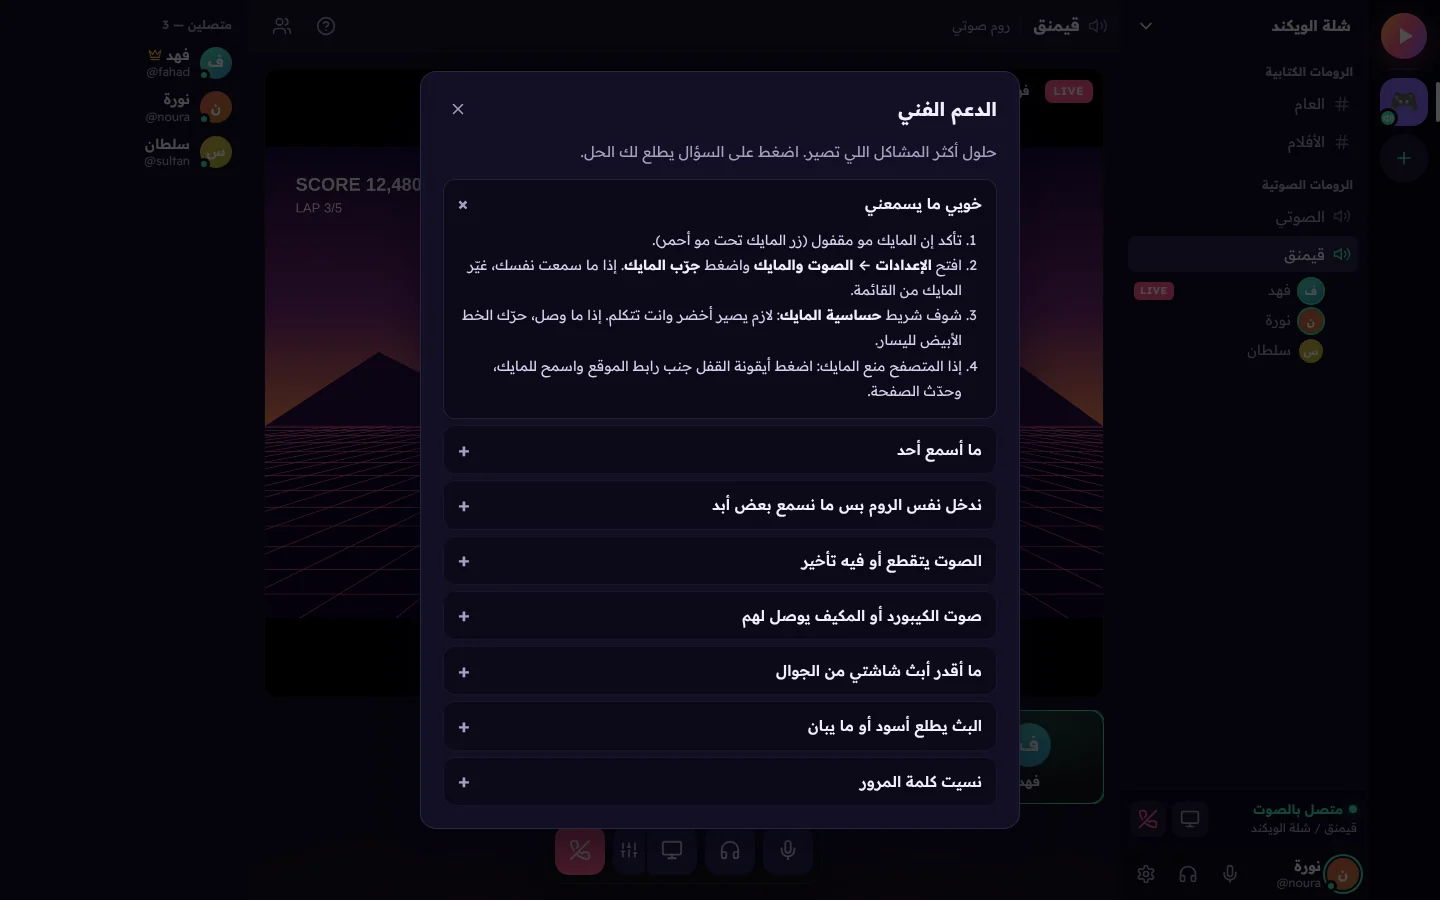
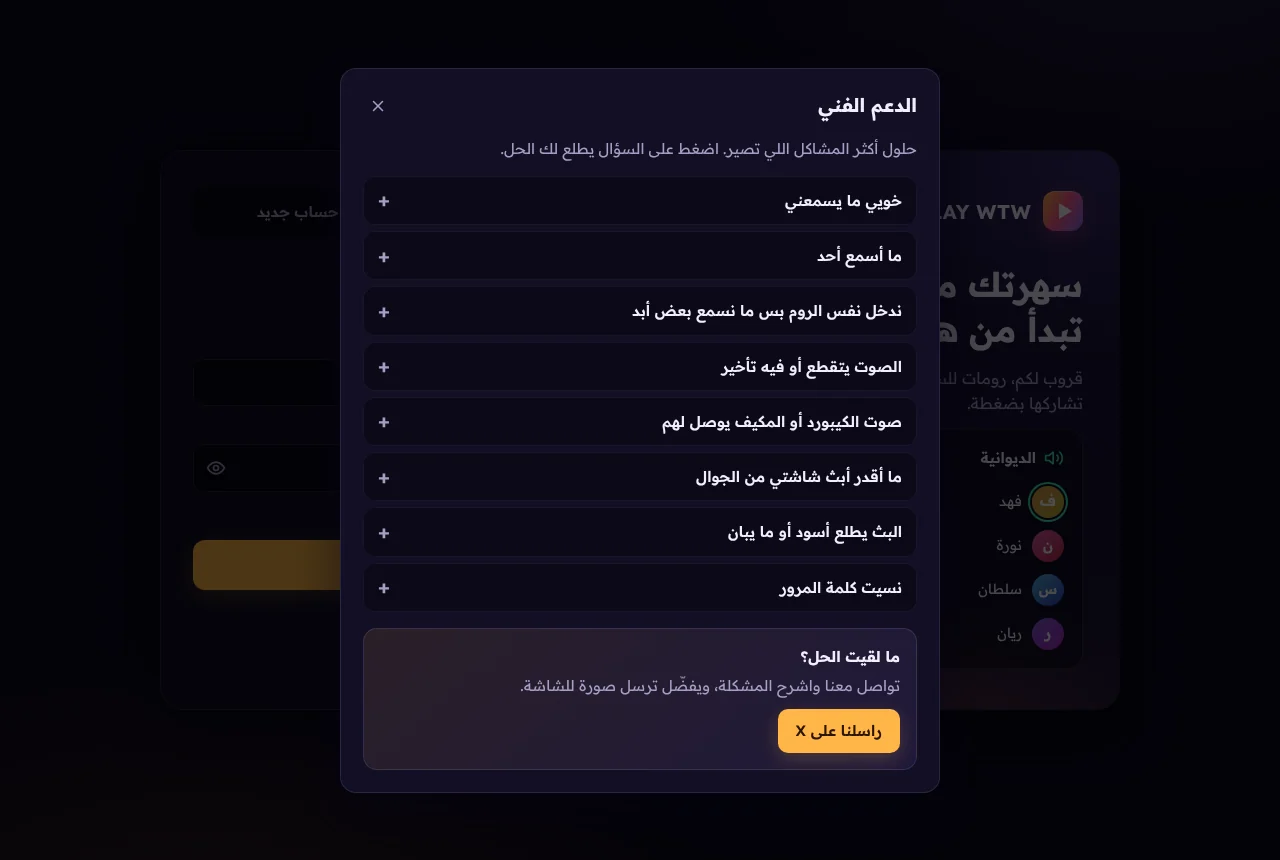
Add X contact link to the help center
Claude-Session: https://claude.ai/code/session_01A7ofh1LaRQQGtkRq9RMsjj

diff --git a/public/js/main.js b/public/js/main.js
@@ -1786,7 +1786,11 @@ applyLook();
 function openHelp() {
   const links = [];
   if (SUPPORT.email) links.push(`<a class="btn btn-primary btn-sm" href="mailto:${esc(SUPPORT.email)}?subject=${encodeURIComponent('مشكلة في PLAY WTW')}">راسلنا على الإيميل</a>`);
-  for (const l of SUPPORT.links || []) if (/^https:\/\//.test(l.url)) links.push(`<a class="btn btn-soft btn-sm" href="${esc(l.url)}" target="_blank" rel="noopener noreferrer">${esc(l.label)}</a>`);
+  for (const l of SUPPORT.links || []) {
+    if (!/^https:\/\//.test(l.url)) continue;
+    const style = links.length ? 'btn-soft' : 'btn-primary'; // أول طريقة تواصل تكون الزر الرئيسي
+    links.push(`<a class="btn ${style} btn-sm" href="${esc(l.url)}" target="_blank" rel="noopener noreferrer">${esc(l.label)}</a>`);
+  }
   $('#contactLinks').innerHTML = links.join('');
   $('#contactBox').classList.toggle('hidden', !links.length);
   openModal('#helpModal');

diff --git a/public/style.css b/public/style.css
@@ -81,6 +81,8 @@ svg.i { width: 20px; height: 20px; flex: none; fill: none; stroke: currentColor;
   transition: background .15s, transform .1s, box-shadow .2s, opacity .15s;
 }
 .btn:active:not(:disabled) { transform: scale(.98); }
+a.btn { text-decoration: none; }
+a.btn-soft { color: var(--text); }
 .btn-primary { background: var(--cta); color: var(--cta-ink); box-shadow: 0 6px 20px rgba(255, 181, 71, .22); }
 .btn-primary:hover:not(:disabled) { background: var(--cta-hover); }
 .btn-soft { background: var(--bg-4); }

diff --git a/public/js/config.js b/public/js/config.js
@@ -3,5 +3,7 @@
 // طرق التواصل في "الدعم الفني". إذا كلها فاضية، قسم التواصل ما يطلع.
 export const SUPPORT = {
   email: '',  // مثال: 'support@example.com'
-  links: [],  // مثال: [{ label: 'حسابنا في X', url: 'https://x.com/...' }]
+  links: [
+    { label: 'راسلنا على X', url: 'https://x.com/mj_1o' },
+  ],
 };

diff --git a/README.md b/README.md
@@ -74,6 +74,7 @@
 
 **الدعم الفني**
 - مركز مساعدة فيه حلول أكثر المشاكل (المايك، الصوت، البث، الجوال)
+- للتواصل: [@mj_1o على X](https://x.com/mj_1o)
 
 ## كيف يشتغل
 
